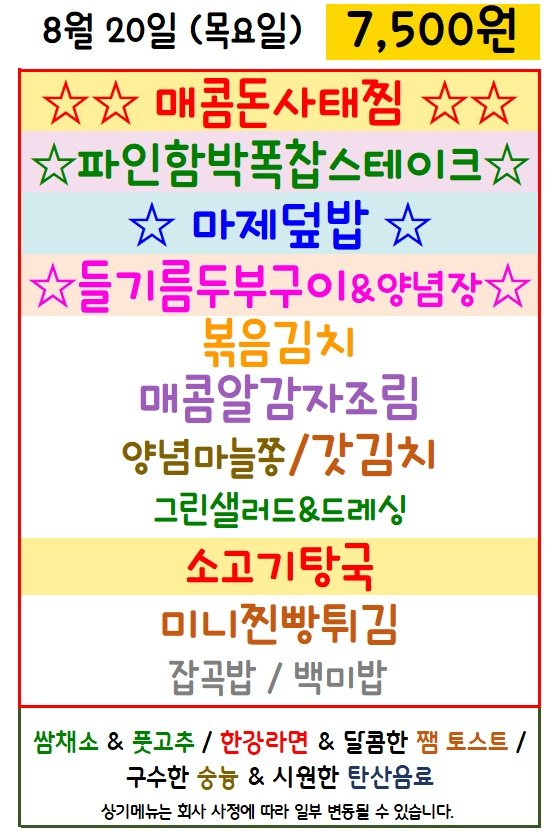
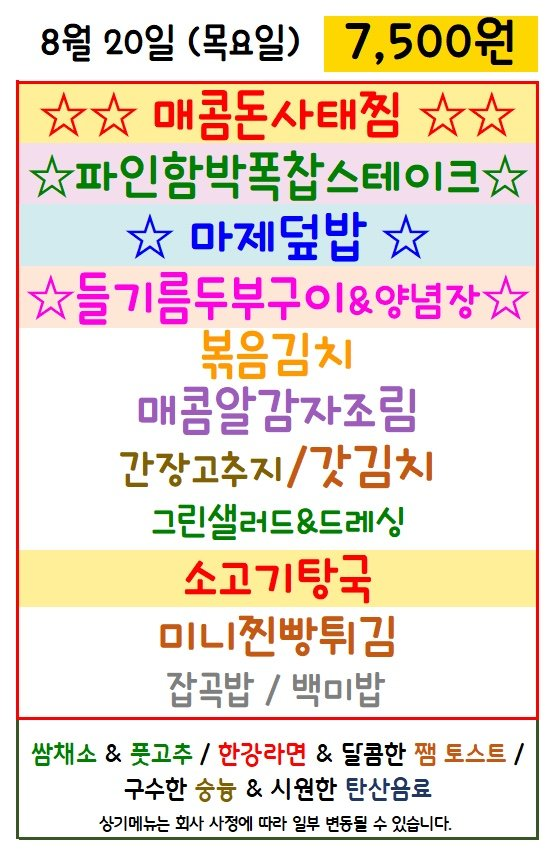
Update menu board assets

diff --git a/menu-today/index.html b/menu-today/index.html
@@ -209,7 +209,7 @@
 
     <section class="meta-bar">
       <div class="meta-card"><div class="meta-label">기준 날짜</div><div class="meta-value">2026년 8월 20일 목요일</div></div>
-      <div class="meta-card"><div class="meta-label">최종 가져온 시간</div><div class="meta-value">2026-08-20 10:18:11</div></div>
+      <div class="meta-card"><div class="meta-label">최종 가져온 시간</div><div class="meta-value">2026-08-20 10:33:58</div></div>
       <div class="meta-card"><div class="meta-label">확인 완료</div><div class="meta-value">9개 식당</div></div>
       <div class="meta-card"><div class="meta-label">준비중</div><div class="meta-value">3개 채널</div></div>
     </section>
@@ -275,7 +275,7 @@
             <div class="sub">벽산디지털밸리5차</div>
           </div>
         </div>
-        <div class="menu-inline-image"><img src="./images/myfood.png" alt="마이푸드 식단 이미지"></div><ul><li>?파인함박폭찹스테이크</li><li>볶음김치</li><li>매콤알감자조림</li><li>양념마늘쫓 / 갓김치</li><li>그린샐러드 &amp; 드레싱</li><li>소고기탕국</li><li>잡곡밥 / 백미밥</li><li>마제덮밥 xx</li></ul>
+        <div class="menu-inline-image"><img src="./images/myfood.png" alt="마이푸드 식단 이미지"></div><ul><li>파인함박폭찹스테이크</li><li>볶음김치</li><li>매콤알감자조림</li><li>간장고추지 / 갓김치</li><li>그린샐러드 &amp; 드레싱</li><li>소고기탕국</li><li>잡곡밥 / 백미밥</li></ul>
       </article>
 
       <article class="restaurant-card">

diff --git a/guro-menu/index.html b/guro-menu/index.html
@@ -32,7 +32,7 @@
   </header>
   <section class="meta">
     <div><small>기준 날짜</small><strong>2026년 8월 20일 목요일</strong></div>
-    <div><small>최종 갱신</small><strong>2026-08-20 10:18:23</strong></div>
+    <div><small>최종 갱신</small><strong>2026-08-20 10:34:10</strong></div>
     <div><small>등록 식당</small><strong>5개</strong></div>
   </section>
   <div class="notice">공개 카카오 채널의 메뉴 이미지를 자동 수집하고 OCR로 정리합니다. 텍스트에 오타가 있을 수 있으니 식단 이미지를 함께 확인해 주세요.</div>
